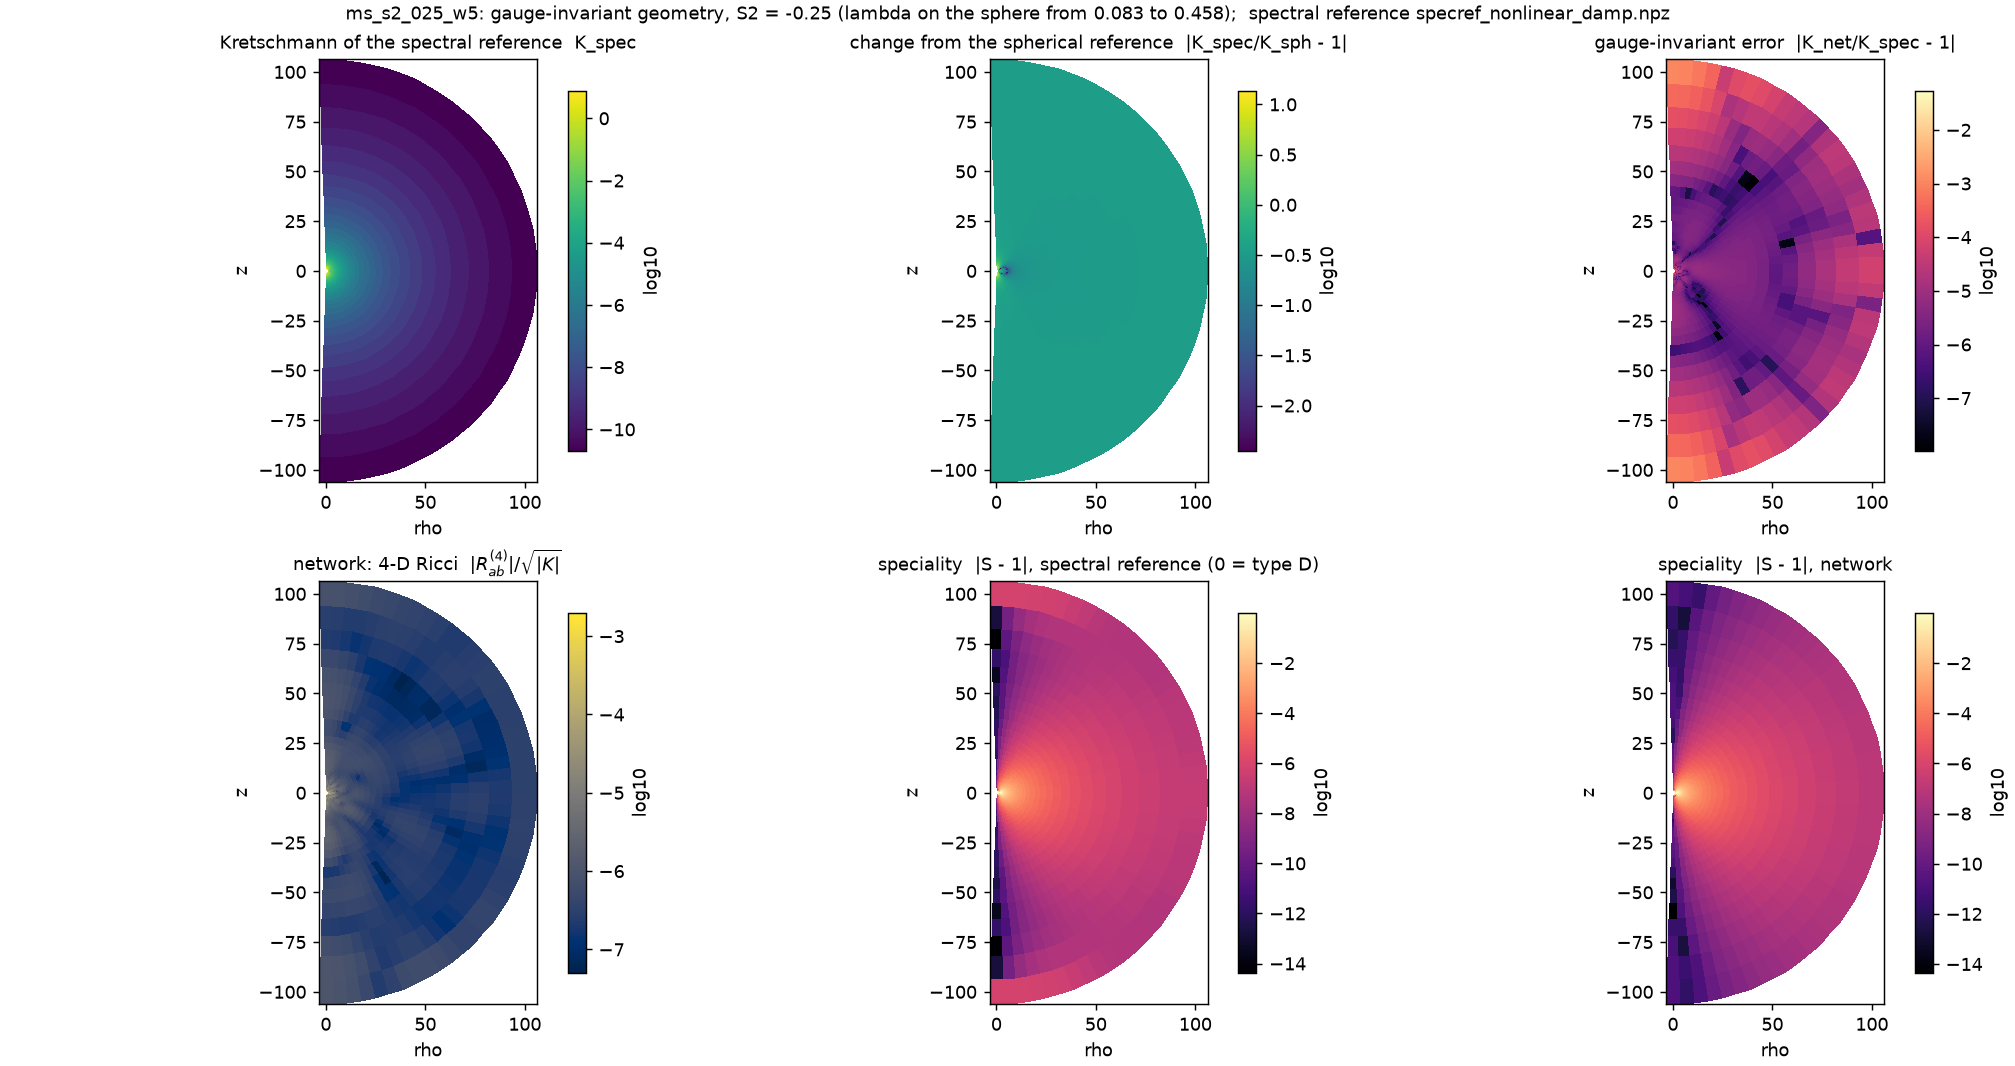
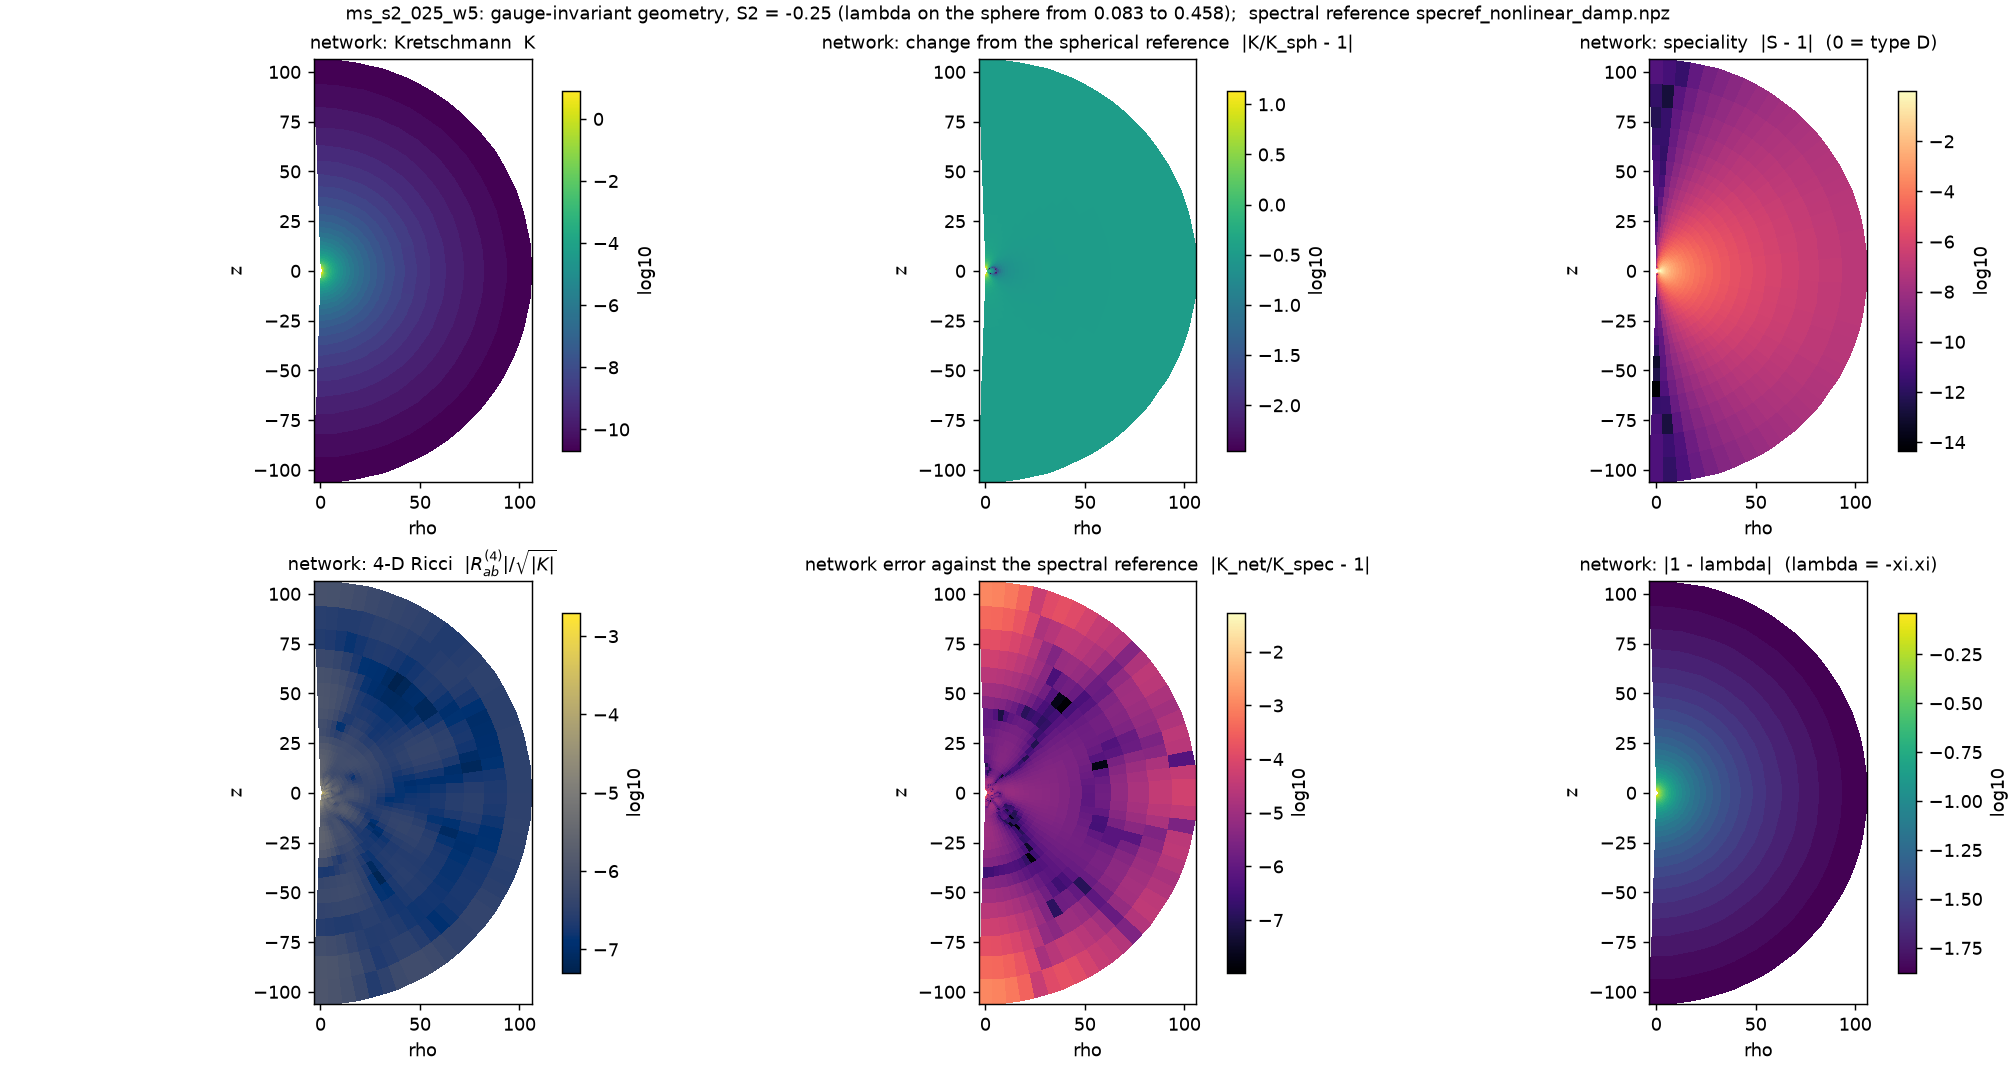
Geometry figures: the network is the subject of every panel (slice, profiles, Hawking); the spectral reference only as the yardstick of its error

diff --git a/Stationary/scripts/geometry_quadrupole.py b/Stationary/scripts/geometry_quadrupole.py
@@ -10,16 +10,15 @@ comparison is an exact solution; the quadrupolar problem has none.  The network 
 are evaluated in the cylindrical chart about the axis (geometry_invariants.cylindrical_metric)
 and contracted in its orthonormal frame, as there.  Writes into the run directory:
 
-    geometry_slice.png     (rho, z) slice, six panels: Kretschmann of the spectral reference; its
-    geometry_slice_zoom.png  change from the spherical reference |K_spec/K_sph - 1| (what the
-                           quadrupole does to the curvature); the gauge-invariant error
-                           |K_net/K_spec - 1|; the network's 4-D Ricci |R^(4)_ab|/sqrt|K| (the Ricci
-                           tensor of the static vacuum completion g = -lam dt^2 + h/lam, over the
-                           curvature scale; 0 for an exact solution); the algebraic speciality
-                           |S - 1| of the spectral reference and of the network (0 = type D; the
-                           spherical reference is type D, the quadrupole is not)
-    hawking_profile.png    m_H(rho) of the network, of the spectral reference and of the spherical
-                           reference, the lapse mass r_a(1 - lambda)/2, and the spectral reference's M_0
+    geometry_slice.png     (rho, z) slice, six panels, all of the NETWORK: its Kretschmann K; its
+    geometry_slice_zoom.png  change from the spherical reference |K/K_sph - 1|; its algebraic
+                           speciality |S - 1| (0 = type D; the spherical reference is type D, the
+                           quadrupole is not); its 4-D Ricci |R^(4)_ab|/sqrt|K| (the Ricci tensor of
+                           the static vacuum completion g = -lam dt^2 + h/lam, over the curvature
+                           scale; 0 for an exact solution); its error |K_net/K_spec - 1| against the
+                           spectral reference (the only panel that uses it); |1 - lambda|
+    hawking_profile.png    m_H(rho) and the lapse mass r_a(1 - lambda)/2 of the network and its M_0,
+                           with the spectral and the spherical references as grey overlays
     geometry_profiles.png  the same curvature quantities along rays (--only profiles)
 """
 from __future__ import annotations
@@ -108,26 +107,26 @@ def main():
         fig, ax = plt.subplots(2, 2, figsize=(9.5, 7.2), constrained_layout=True)
         for j, deg in enumerate(angles):
             c = cols[j % len(cols)]
-            ax[0, 0].loglog(r, g(ref, "K")[:, j], color=c, label=f"spectral reference, {lab(deg)}")
+            ax[0, 0].loglog(r, g(net, "K")[:, j], color=c, label=f"network, {lab(deg)}")
             ax[0, 0].loglog(r, g(bg, "K")[:, j], "--", color=c, lw=1.0)
-            ax[0, 1].semilogx(r, g(ref, "K")[:, j] / g(bg, "K")[:, j], color=c, label=lab(deg))
-            ax[1, 0].loglog(r, np.maximum(g(ref, "speciality")[:, j], 1e-30), color=c, label=lab(deg))
+            ax[0, 1].semilogx(r, g(net, "K")[:, j] / g(bg, "K")[:, j], color=c, label=lab(deg))
+            ax[1, 0].loglog(r, np.maximum(g(net, "speciality")[:, j], 1e-30), color=c, label=lab(deg))
             ax[1, 1].loglog(r, np.maximum(np.abs(g(net, "K")[:, j] / g(ref, "K")[:, j] - 1), 1e-30),
                             color=c, label=f"|K_net/K_spec - 1|, {lab(deg)}")
             ax[1, 1].loglog(r, np.maximum(g(net, "vacuum_defect")[:, j], 1e-30), ":", color=c, lw=1.2)
         ax[0, 0].loglog(r, 48 * float(cfg.R0) ** 2 / (r + float(cfg.R0)) ** 6, ":", color="k", lw=1.0,
                         label="Schwarzschild reference 48 M²/r⁶ (M = R0, r = rho + R0)")
-        ax[0, 0].set_ylabel("Kretschmann K   (dashed: spherical reference)")
-        ax[0, 1].set_ylabel("K_spec / K_sph"); ax[0, 1].axhline(1, color="grey", lw=0.8)
-        ax[1, 0].set_ylabel("speciality |S - 1| of the spectral reference (0 = type D)")
-        ax[1, 1].set_ylabel("solid: |K_net/K_spec - 1|;  dotted: |R⁽⁴⁾_ab|/√K of the network")
+        ax[0, 0].set_ylabel("network Kretschmann K\n(dashed: spherical reference)")
+        ax[0, 1].set_ylabel("network K / K_sph\n(K_sph: spherical reference)"); ax[0, 1].axhline(1, color="grey", lw=0.8)
+        ax[1, 0].set_ylabel("network speciality |S - 1|\n(0 = type D)")
+        ax[1, 1].set_ylabel("network: solid |K_net/K_spec - 1|\n(spectral reference); dotted |R⁽⁴⁾_ab|/√K")
         for p, t in zip(ax.ravel(), "abcd"):
             p.set_xlabel("coordinate radius rho"); p.grid(alpha=0.3, which="both")
             p.text(0.03, 0.92, f"({t})", transform=p.transAxes)
             p.axvline(float(cfg.rho_in), color="grey", lw=0.8)
         for p in (ax[0, 0], ax[0, 1], ax[1, 0], ax[1, 1]):
             p.legend(fontsize=7, frameon=False)
-        fig.suptitle(f"{name}: S2 = {cfg.lam_bc_S2:g}, geometry along rays at "
+        fig.suptitle(f"{name}: the network's geometry, S2 = {cfg.lam_bc_S2:g}, along rays at "
                      f"{', '.join(lab(d) for d in angles)} from the axis", fontsize=10)
         png = os.path.join(out, "geometry_profiles.png")
         fig.savefig(png, dpi=140); plt.close(fig)
@@ -142,13 +141,15 @@ def main():
         bg = _panels(*cylindrical_metric(lambda x: sph(x).h, lambda x: sph(x).lam, "vacuum", axis), ys)
         put = lambda v: np.asarray(v).reshape(mask.shape)                       # noqa: E731
         Kn, Kr, Kb = put(net["K"]), put(ref["K"]), put(bg["K"])
+        # the network is the subject; the spectral reference enters only as the yardstick of panel 5
+        lam_net = np.asarray(jax.vmap(lambda y: pf(y).lam)(ys.reshape(-1, 3))).reshape(mask.shape)
         panels = [
-            (Kr, "Kretschmann of the spectral reference  K_spec", "viridis"),
-            (np.abs(Kr / Kb - 1.0), "change from the spherical reference  |K_spec/K_sph - 1|", "viridis"),
-            (np.abs(Kn / Kr - 1.0), "gauge-invariant error  |K_net/K_spec - 1|", "magma"),
+            (Kn, "network: Kretschmann  K", "viridis"),
+            (np.abs(Kn / Kb - 1.0), "network: change from the spherical reference  |K/K_sph - 1|", "viridis"),
+            (put(net["speciality"]), "network: speciality  |S - 1|  (0 = type D)", "magma"),
             (put(net["vacuum_defect"]), r"network: 4-D Ricci  $|R^{(4)}_{ab}|/\sqrt{|K|}$", "cividis"),
-            (put(ref["speciality"]), "speciality  |S - 1|, spectral reference (0 = type D)", "magma"),
-            (put(net["speciality"]), "speciality  |S - 1|, network", "magma"),
+            (np.abs(Kn / Kr - 1.0), "network error against the spectral reference  |K_net/K_spec - 1|", "magma"),
+            (np.abs(1.0 - lam_net), "network: |1 - lambda|  (lambda = -xi.xi)", "viridis"),
         ]
         np.savez(os.path.join(out, "geometry_slice.npz"), R=R, Z=Z,
                  **{t: np.asarray(d) for t, (d, _, _) in zip("abcdef", panels)})
@@ -181,6 +182,7 @@ def main():
         if a.replot_hawking:
             d = np.load(os.path.join(out, "hawking_profile.npz"))
             radii, P, M0 = d["radii"], d["P"], float(d["M0"])
+            Pn = d["Pn"] if "Pn" in d.files else None
         else:
             radii = np.geomspace(float(cfg.rho_in), float(cfg.rho_out) * 0.98, a.n_radii)
             rows = []
@@ -190,24 +192,34 @@ def main():
                 rows.append([float(g[0]["hawking_mass"]), float(g[1]["hawking_mass"]),
                              float(g[2]["hawking_mass"]), float(g[1]["lam_mean"]), float(g[1]["r_areal"])])
             P = np.asarray(rows)
-            np.savez(os.path.join(out, "hawking_profile.npz"), radii=radii, P=P, M0=M0)
+            Pn = None
+        if Pn is None:                              # the network's own mean lambda and areal radius (cheap)
+            Pn = np.asarray([[float(g["lam_mean"]), float(g["r_areal"])] for g in (
+                sphere_geometry(lambda x: pf(x).h, lambda x: pf(x).lam, float(r), "vacuum",
+                                n_mu=10, n_phi=8) for r in radii)])
+            np.savez(os.path.join(out, "hawking_profile.npz"), radii=radii, P=P, M0=M0, Pn=Pn)
+        M0n = json.load(open(a.moments or os.path.join(a.run, "gh_moments.json")))["net"]["M_ernst"][0]
         fig, ax = plt.subplots(1, 2, figsize=(13, 4.6), constrained_layout=True)
-        ax[0].plot(radii, P[:, 0], "o-", label="m_H  network")
-        ax[0].plot(radii, P[:, 1], "s--", label="m_H  spectral reference")
-        ax[0].plot(radii, P[:, 2], ":", color="grey", label="m_H  spherical (Schwarzschild) reference")
-        ax[0].plot(radii, 0.5 * P[:, 4] * (1 - P[:, 3]), "^-", label="m_lapse = r_a(1-lam)/2 (spectral reference)")
-        ax[0].axhline(M0, color="k", lw=1, ls=":", label=f"M_0 of the spectral reference = {M0:.5f}")
+        ax[0].plot(radii, P[:, 0], "o-", label="network: m_H")
+        ax[0].plot(radii, 0.5 * Pn[:, 1] * (1 - Pn[:, 0]), "^-", label="network: m_lapse = r_a(1-lam)/2")
+        ax[0].plot(radii, P[:, 1], "s--", lw=0.9, ms=3, color="grey",
+                   label="m_H of the spectral reference")
+        ax[0].plot(radii, P[:, 2], ":", color="grey", label="m_H of the spherical (Schwarzschild) reference")
+        ax[0].axhline(M0n, color="k", lw=1, ls=":", label=f"network: M_0 = {M0n:.5f}")
         ax[0].set_xscale("log"); ax[0].set_xlabel("coordinate radius rho"); ax[0].set_ylabel("mass")
         ax[0].set_title("Hawking mass profile (vacuum reading)"); ax[0].legend(fontsize=8)
         ax[0].grid(alpha=0.3)
-        ax[1].plot(radii, np.abs(P[:, 0] - P[:, 1]) / M0, "o-", label="|m_H(net) - m_H(spec)| / M_0")
-        ax[1].plot(radii, np.abs(P[:, 1] / M0 - 1), "s--", label="|m_H(spec)/M_0 - 1|")
+        ax[1].plot(radii, np.abs(P[:, 0] / M0n - 1), "o-", label="network: |m_H/M_0 - 1|")
+        ax[1].plot(radii, np.abs(0.5 * Pn[:, 1] * (1 - Pn[:, 0]) / M0n - 1), "^-",
+                   label="network: |m_lapse/M_0 - 1|")
+        ax[1].plot(radii, np.abs(P[:, 0] - P[:, 1]) / M0n, "s--", lw=0.9, ms=3, color="grey",
+                   label="network error: |m_H(net) - m_H(spec)| / M_0  (spectral reference)")
         ax[1].set_xscale("log"); ax[1].set_yscale("log"); ax[1].set_xlabel("coordinate radius rho")
-        ax[1].set_title("network against spectral reference, and approach to M_0"); ax[1].legend(fontsize=8)
+        ax[1].set_title("approach of the network to its mass M_0, and its error"); ax[1].legend(fontsize=8)
         ax[1].grid(alpha=0.3, which="both")
         for p in ax:
             p.axvline(float(cfg.rho_in), color="grey", lw=0.8); p.axvline(float(cfg.rho_out), color="grey", lw=0.8)
-        fig.suptitle(f"{name}: Hawking mass, S2 = {cfg.lam_bc_S2:g}", fontsize=11)
+        fig.suptitle(f"{name}: the network's Hawking mass, S2 = {cfg.lam_bc_S2:g}", fontsize=11)
         png = os.path.join(out, "hawking_profile.png")
         fig.savefig(png, dpi=130); plt.close(fig)
         print(f"[geom] wrote {png}", flush=True)
